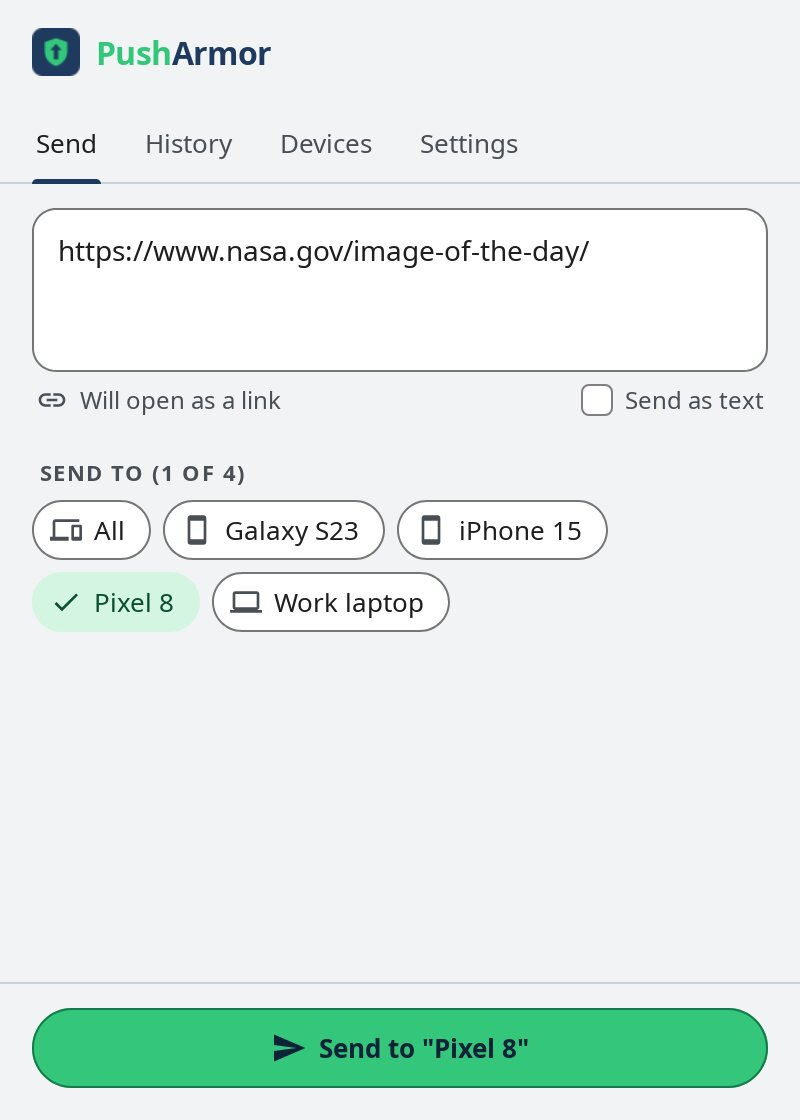
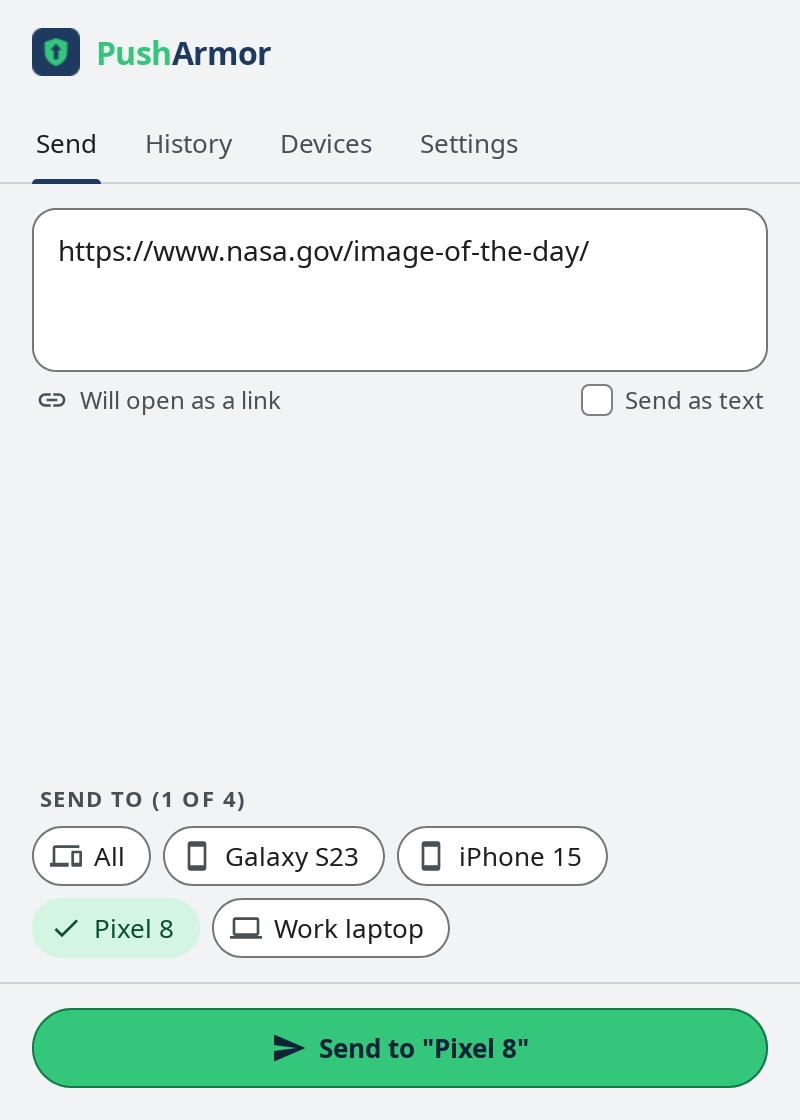
webext: Send device chips sit at the bottom, just above the Send button, like iOS
The free space sits between the message and the chips in the popup and
the full tab page. About page Chrome and Firefox Send screenshots updated.

diff --git a/client/webext-common/src/ui/popup.ts b/client/webext-common/src/ui/popup.ts
@@ -304,7 +304,8 @@ export async function sendView(env: UiEnv, root: HTMLElement, st: StateView, pre
   // I494: every device is greyed: say why Send is off
   const none = !sendable.length && chips.childElementCount ? h("p", { class: "dim nosend" }, "No device can receive messages right now.") : null;
   const noPair = nav && !data.peers.some((p) => p.paired) ? cta("Pair your first device to start sending.", "Pair a device", nav.toDevices) : null;
-  root.append(head, chips, ...(none ? [none] : []), ...(noPair ? [noPair] : []), h("div", { class: "grow" }), h("div", { class: "foot send-foot" }, sendBtn));
+  // Like iOS: the free space sits under the field, so the chips sit just above Send.
+  root.append(h("div", { class: "grow" }), head, chips, ...(none ? [none] : []), ...(noPair ? [noPair] : []), h("div", { class: "foot send-foot" }, sendBtn));
   relabel();
   await update();
 }

diff --git a/client/webext-common/src/ui/style.css b/client/webext-common/src/ui/style.css
@@ -184,7 +184,7 @@ body.page .foot { position: static; }
 .caption svg { flex: none; }
 .astext { display: inline-flex; align-items: center; gap: 6px; font-size: 12px; line-height: 16px; color: var(--ink2); cursor: pointer; }
 .astext[hidden] { display: none; }
-.dchips { display: flex; flex-wrap: wrap; gap: 6px; padding: 0 16px; }
+.dchips { display: flex; flex-wrap: wrap; gap: 6px; padding: 0 16px 12px; }
 .nosend { margin: 8px 16px 0; }
 .chip.dchip { height: 30px; padding: 0 12px 0 8px; gap: 6px; background: var(--card); border-color: var(--ctl); color: var(--ink); font-size: 13px; font-weight: 500; }
 .chip.dchip:hover { background: var(--s1); }

diff --git a/client/webext-common/test/ui.test.ts b/client/webext-common/test/ui.test.ts
@@ -571,3 +571,9 @@ test("overflow menu opens upward only when it does not fit below and above has m
   assert.deepEqual(menuFit(500, 120.7, 200.4), { up: true, maxH: 200 });
   assert.deepEqual(menuFit(100, -5, -10), { up: false, maxH: 0 });
 });
+
+test("Send: the free space sits under the field, so the device chips sit just above Send (like iOS)", async () => {
+  const { readFileSync } = await import("node:fs");
+  const pop = readFileSync(new URL("../src/ui/popup.ts", import.meta.url), "utf8");
+  assert.match(pop, /root\.append\(h\("div", \{ class: "grow" \}\), head, chips, [^\n]*h\("div", \{ class: "foot send-foot" \}, sendBtn\)\);/);
+});
